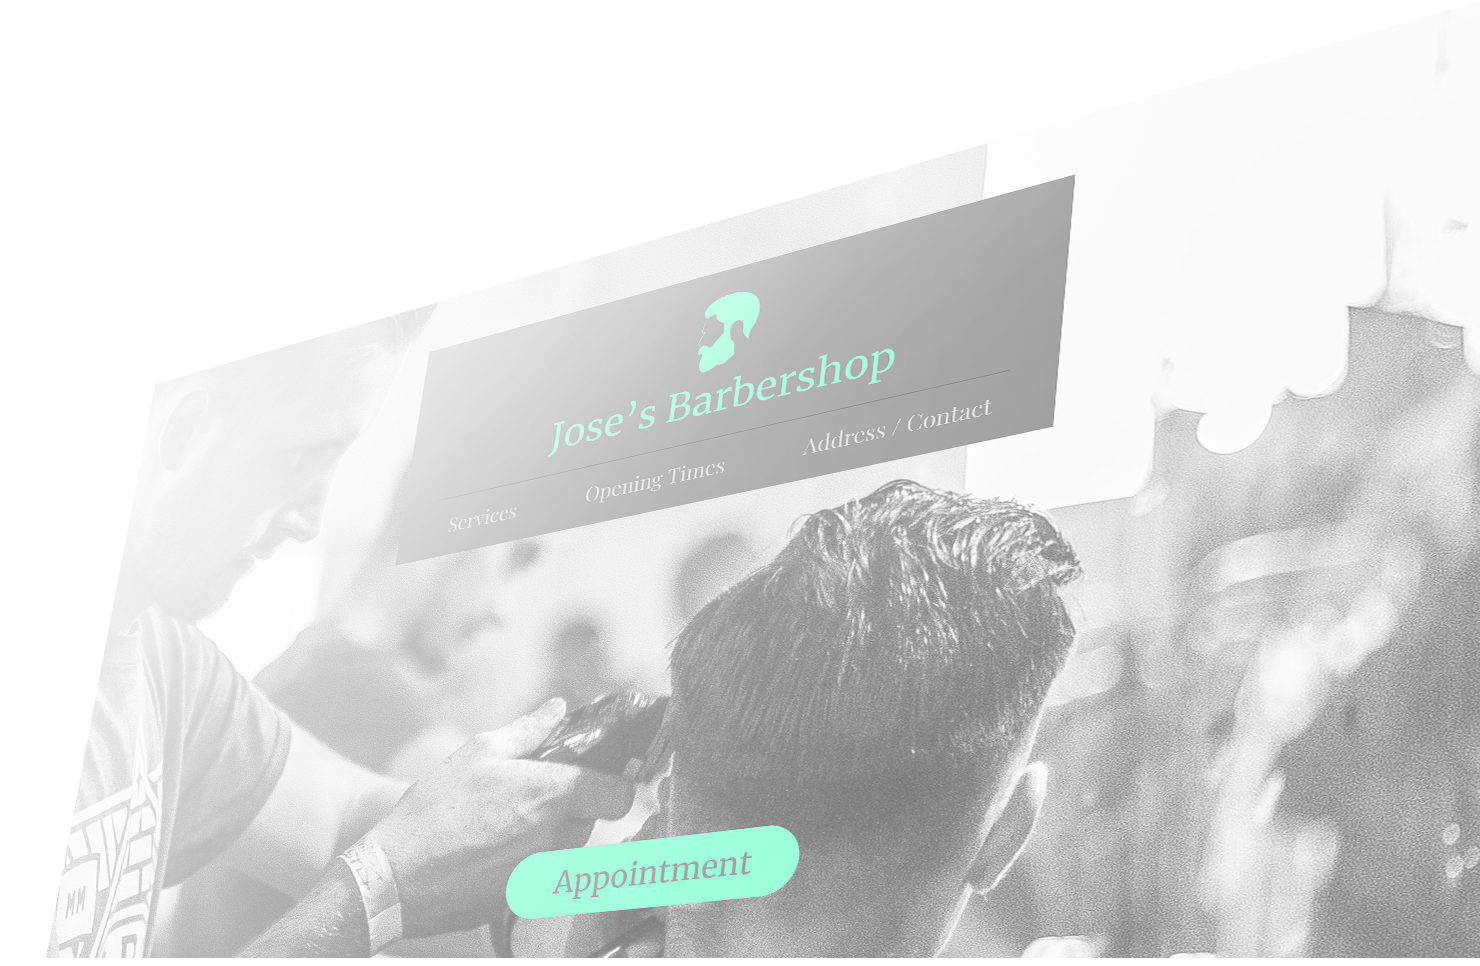
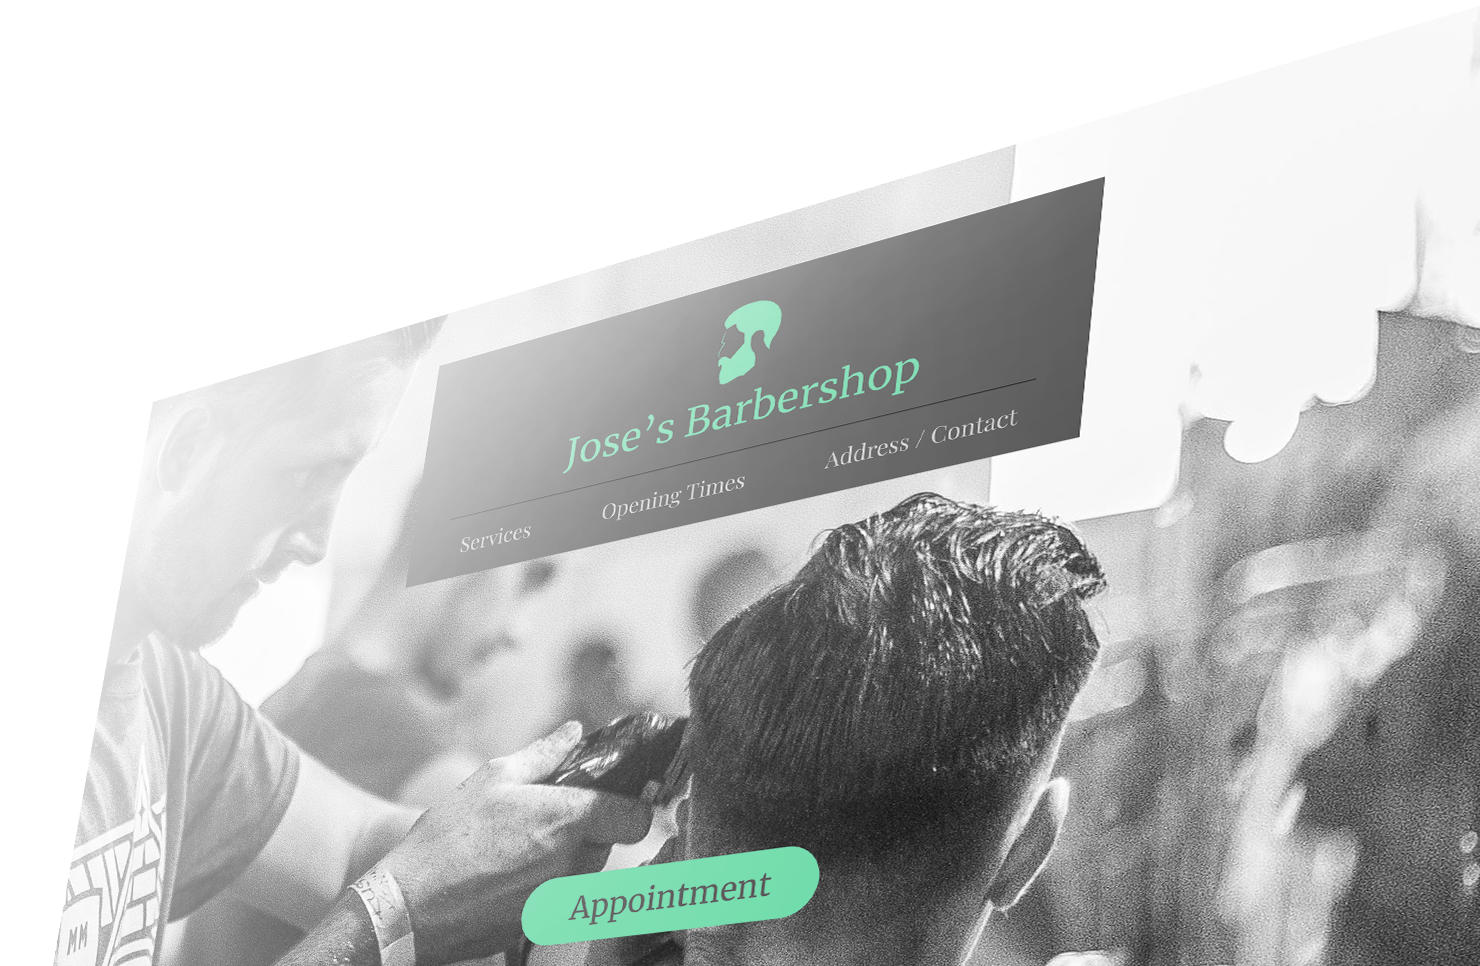
update barbershop images and background color

diff --git a/style.css b/style.css
@@ -497,10 +497,12 @@ header h2 {
 /*~~ PROJECT: BARBERSHOP ~~*/
 .barbershop-section {
   color: white;
+
   background: linear-gradient(
-    228.05deg,
-    #8d8d8d 2.88%,
-    /* #80968f 41.42%, */ #80968f 102.88% /* #beffe8 102.88% */
+    234.67deg,
+    rgba(162, 231, 194, 0.8) -3.64%,
+    rgba(138, 199, 166, 0.8) 39.19%,
+    rgba(71, 171, 117, 0.8) 94.27%
   );
 }
 
